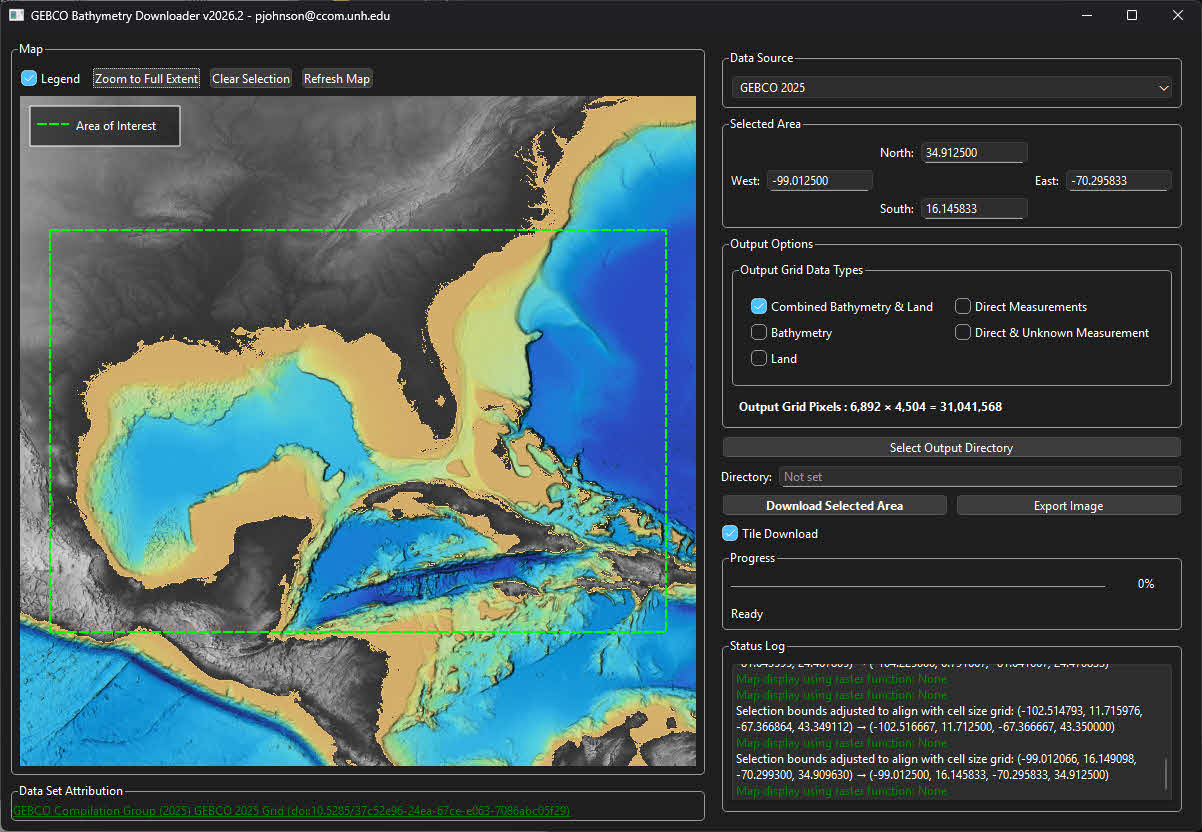
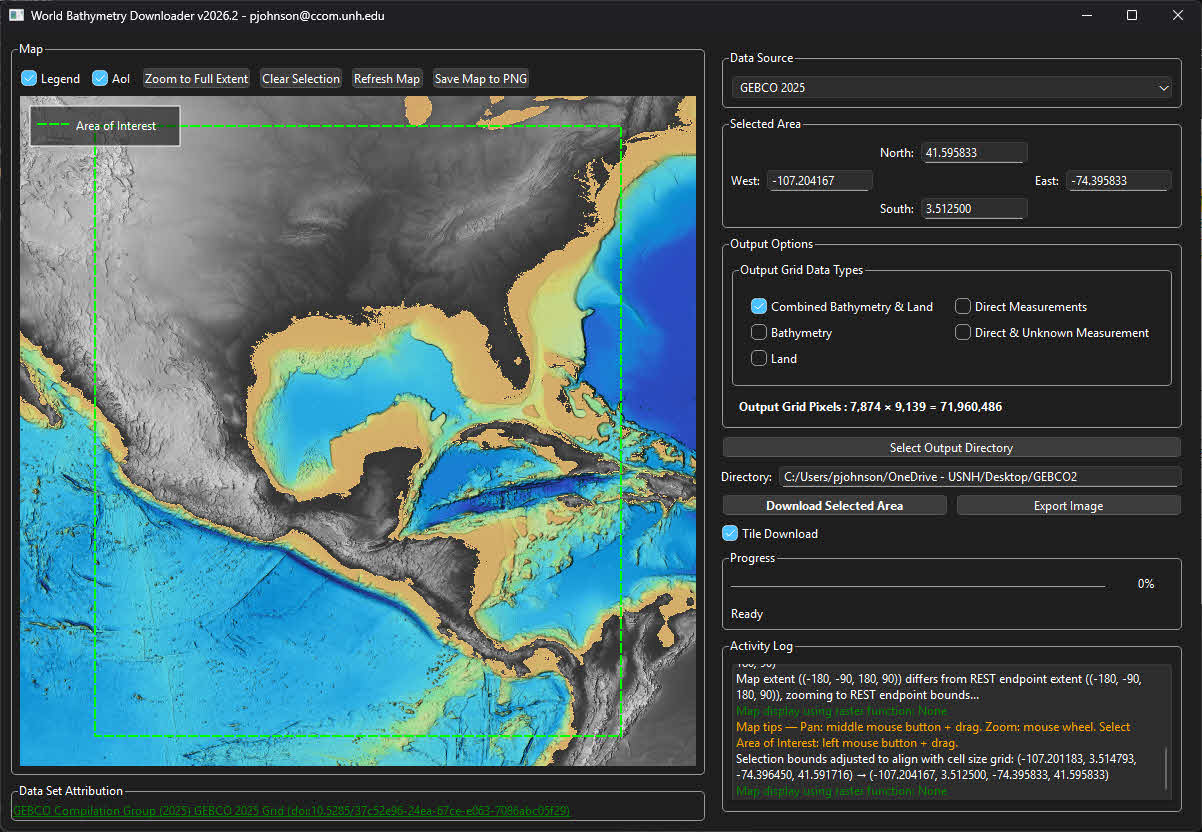
Rebranding Almost Done	2

diff --git a/README.md b/README.md
@@ -1,4 +1,4 @@
-# GEBCO Bathymetry Downloader
+# World Bathymetry Downloader
 
 A PyQt6-based desktop application for downloading bathymetry data from ArcGIS ImageServer REST endpoints and creating GeoTIFF files with interactive area selection.
 
